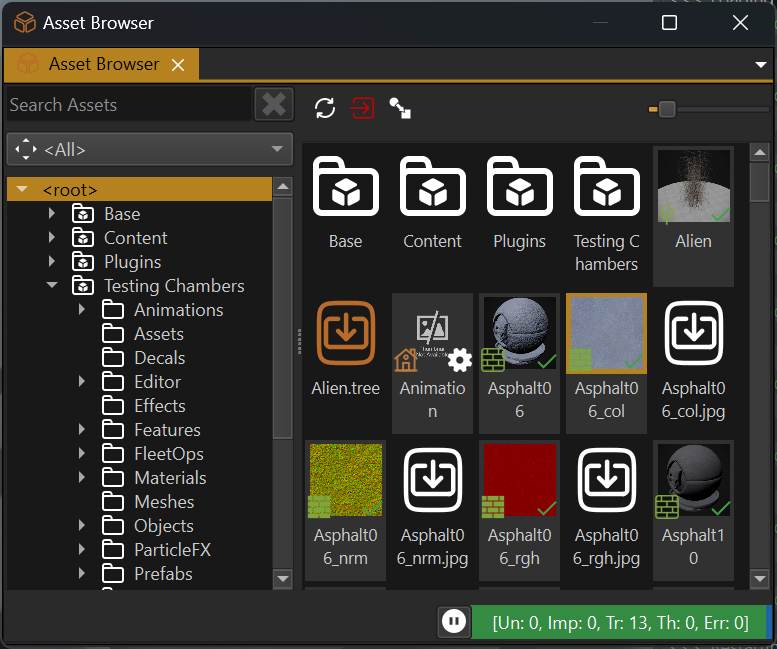
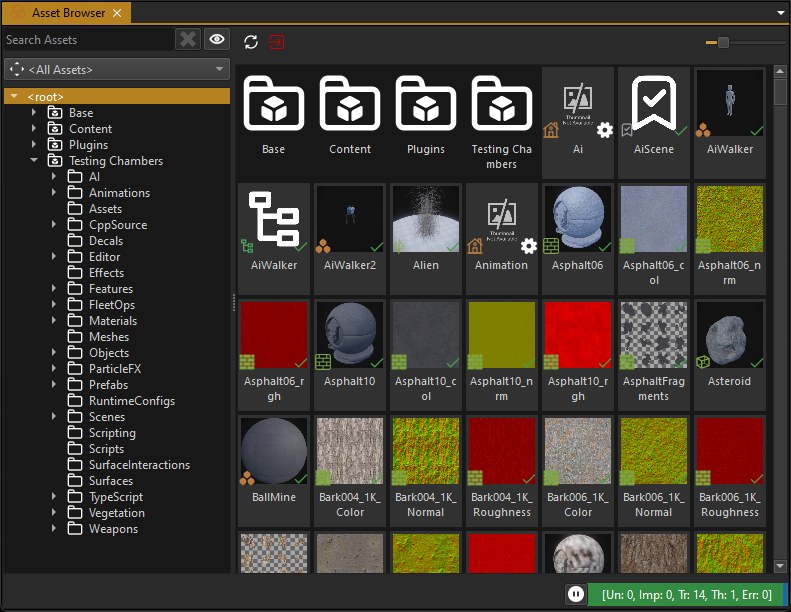
Asset browser updates

diff --git a/pages/docs/assets/asset-browser.md b/pages/docs/assets/asset-browser.md
@@ -48,7 +48,11 @@ On the left the asset browser displays all [data directories](../projects/data-d
 
 ### Show Assets in Sub-Folders
 
-Right click on a folder and toggle **Show items in sub-folders**. When enabled (the default) the asset browser shows *all* assets that are anywhere below a selected folder. When disabled, only the assets that are directly inside the a selected folder are shown. Assets that are in a sub-folder are not displayed. This behavior is more like a typical file explorer.
+The **eye button** to the right of the search field, toggles which assets are shown. If it shows the *open eye*, the asset browser displays *all assets* below the currently selected folder, if it shows the *closed eye*, only the files directly inside the selected folder are shown. The former mode makes it easy to find assets for which you only roughly know where they are, the latter mode is more useful when you have many assets and you only want to see the ones from a specific folder.
+
+When any search term is entered into the text box, automatically all files are displayed. 
+
+Some people prefer one mode or the other as their default, which is why this setting is saved and restored between editor runs.
 
 ### Filter to this Path
 
@@ -74,13 +78,13 @@ The editor remembers which assets you used recently. The asset browser can list 
 
 ## Copy Asset Guid
 
-In rare cases you may need the internal *GUID* (Globally Unique Identifier) of an asset. You can easily copy it to the clipboard by right clicking an asset and selecting *Copy Asset Guid*.
+Sometimes you need the internal *GUID* (Globally Unique Identifier) of an asset. You can easily copy it to the clipboard by right clicking an asset and selecting *Copy Asset Guid*.
 
 ## Transform Assets
 
 The asset browser allows you to quickly transform assets in multiple ways:
 
-* **Transform All:** In the toolbar of the asset browser there is a button of a white box with a red arrow. When you press this button *all* assets that are not up-to-date get *transformed* (ie. their runtime data is created from the source input data).
+* **Transform All:** In the toolbar of the asset browser there is a button of a red box with a red arrow. When you press this button *all* assets that are not up-to-date get *transformed* (ie. their runtime data is created from the source input data).
 
 * **Transform Selected:** Select one or multiple assets in the asset browser, right click and choose *Transform* to update only the selected assets.
 
